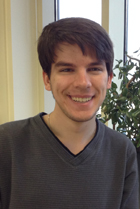
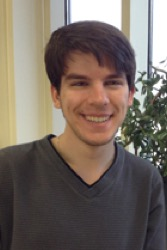
Update people; Scale down image sizes.

diff --git a/pages/research/research.html b/pages/research/research.html
@@ -9,8 +9,12 @@ menu: research
 
 <p>Model organisms provide the opportunity to experimentally test the correlations between genes and disease-related processes because of the high-level of conservation and the ease of manipulation. However, most model organism research is based on a single wild-type strain background with little connection to natural variation, which is like studying a single person to make conclusions about the entire human species. <em>C. elegans</em> is isolated worldwide and has genetic variation comparable to that of humans. Therefore, <em>C. elegans</em> provides the opportunity to identify the genes that vary among individuals and the molecular mechanisms for how genetic variation causes phenotypic differences.</p>
 
+
+{% assign pages = site.pages | sort:"order"  %}
+
+
 <ul>
-{% for page in site.pages %}
+{% for page in pages %}
 	{% if page.category == "research" %}
 	<li><a href="#{{ page.title }}">{{ page.title }}</a></li>
 	{% endif %}
@@ -18,17 +22,21 @@ menu: research
 </ul>
 
 
-
-<div class="row">
-{% for page in site.pages %}
-<div class="col-md-6">
+{% for page in pages %}
 	{% if page.category == "research" %}
-	<h4><a name="{{ page.title }}"></a>{{ page.title }}</h4>
-		{{ page.content }}
+	<div class="row">
+			<div class="col-md-4">
+				<img src="/assets/img/research/{{ page.image }}" style= "margin-top:25px" class = "img-responsive img-thumbnail" alt = "{{ page.title }}" />
+			</div>
+			<div class="col-md-8">
+			<h3>{{ page.title }}</h3>
+				{{ page.content }}
+				<hr />
+			</div>
+	</div>
 	{% endif %}
-</div>
 {% endfor %}
-</div>
+
 
 
 

diff --git a/pages/research/research-variants.md b/pages/research/research-variants.md
@@ -4,20 +4,10 @@ title: Species-wide and genome-wide identification of genomic variants
 permalink: Research/Projects/Variation/
 menu: research
 category: research
+image: variant-calling.png
+order: 2
 ---
 
-<div class="row">
+Because of the efforts of a number of highly dedicated scientists and citizen volunteers, we have amassed a large collection of more than 200 C. elegans strains from throughout the world. These strains represent nearly all known isolation locations where we have found this species. Our goals are to use this large strain collection to identify functional variation for a large number of traits and to understand more about the population genetic forces shaping the genome.
 
-<div class="col-md-12">
-<div class="text-center">
-<br />
-	<img src="/assets/img/research/variant-calling.png" alt="Drug Sensitivities and Stress" class="thumbnail" style="margin:auto; width: 300px;"/><br /><br />
-</div>
-
-<p>Because of the efforts of a number of highly dedicated scientists and citizen volunteers, we have amassed a large collection of more than 200 C. elegans strains from throughout the world. These strains represent nearly all known isolation locations where we have found this species. Our goals are to use this large strain collection to identify functional variation for a large number of traits and to understand more about the population genetic forces shaping the genome.</p>
-
-<p>To this end, we sequenced all of these strains at 50X depth using the Illumina HiSeq platform. This large sequence data set allows us to not only identify single nucleotide variants but to dig deeper into other classes of genetic variation, including insertion/deletions, transposon insertions, genomic rearrangements, microsatellite repeats, and copy number variants. We hope that these addition classes of variation will contribute to understanding how genetic variation contributes to phenotypic variation. </p>
-
-</div>
-
-</div>
+To this end, we sequenced all of these strains at 50X depth using the Illumina HiSeq platform. This large sequence data set allows us to not only identify single nucleotide variants but to dig deeper into other classes of genetic variation, including insertion/deletions, transposon insertions, genomic rearrangements, microsatellite repeats, and copy number variants. We hope that these addition classes of variation will contribute to understanding how genetic variation contributes to phenotypic variation. 

diff --git a/pages/research/research-signalling.md b/pages/research/research-signalling.md
@@ -4,20 +4,11 @@ title: Investigation of natural variation in conserved signaling pathways
 permalink: Research/Projects/Signalling/
 menu: research
 category: research
+image: Vulva_pop.jpg
+order: 4
 ---
 
-<div class="row">
 
-<div class="col-md-12">
-<div class="text-center">
-<br />
-	<img src="/assets/img/research/Vulva_pop.jpg" alt="Drug Sensitivities and Stress" class="thumbnail" style="margin:auto; width: 300px;"/><br /><br />
-</div>
+<em>C. elegans</em> is a powerful model to identify the genes and mechanisms for cell-fate specification. Recent results show that the canonical pathways found in the laboratory strain (N2) vary within natural populations. Individual members of the pathway have different activities or are modified by novel factors. We aim to determine how these new networks are wired as compared to the classic examples.
 
-<p><em>C. elegans</em> is a powerful model to identify the genes and mechanisms for cell-fate specification. Recent results show that the canonical pathways found in the laboratory strain (N2) vary within natural populations. Individual members of the pathway have different activities or are modified by novel factors. We aim to determine how these new networks are wired as compared to the classic examples.</p>
-
-<p>Using quantitative assays of vulval development, dauer formation, and stress responses, we probe the conserved Ras, Notch, Wnt, TGF-beta, insulin signaling pathways for variation within the <em>C. elegans</em> species. Once we identify these variant genes, we can determine the mechanisms for how natural populations vary in canonical signaling pathways. These results might shed light on the important genes that vary most in human populations to cause differences in development and/or disease.</p>
-
-</div>
-
-</div>
+Using quantitative assays of vulval development, dauer formation, and stress responses, we probe the conserved Ras, Notch, Wnt, TGF-beta, insulin signaling pathways for variation within the <em>C. elegans</em> species. Once we identify these variant genes, we can determine the mechanisms for how natural populations vary in canonical signaling pathways. These results might shed light on the important genes that vary most in human populations to cause differences in development and/or disease.

diff --git a/pages/research/research-GxE.md b/pages/research/research-GxE.md
@@ -4,20 +4,11 @@ title: Identification of the genes that underly gene-by-environment (GxE) intera
 permalink: Research/Projects/GxE/
 menu: research
 category: research
+image: GxE.jpg
+order: 3
 ---
 
-<div class="row">
+The phenotype of an organism is determined by both genetic and environmental factors. Additionally, we know that some genetic factors only have effects on the phenotype of an organism in certain environments. Understanding these gene-by-environment (GxE) interactions at the molecular level will likely inform us about how organisms respond to shifting environments.
 
-<div class="col-md-12">
-<div class="text-center">
-<br />
-	<img src="/assets/img/research/GxE.jpg" alt="Drug Sensitivities and Stress" class="thumbnail" style="margin:auto; width: 300px;"/><br /><br />
-</div>
+In an effort to investigate the mechanistic underpinnings for a large number GxE interactions, we used our high-throughput assays (here - link to that page) to measure fecundity, growth rate, and pharyngeal pumping in different bacterial food sources and different temperatures. 
 
-<p>The phenotype of an organism is determined by both genetic and environmental factors. Additionally, we know that some genetic factors only have effects on the phenotype of an organism in certain environments. Understanding these gene-by-environment (GxE) interactions at the molecular level will likely inform us about how organisms respond to shifting environments.</p>
-
-<p>In an effort to investigate the mechanistic underpinnings for a large number GxE interactions, we used our high-throughput assays (here - link to that page) to measure fecundity, growth rate, and pharyngeal pumping in different bacterial food sources and different temperatures. </p>
-
-</div>
-
-</div>

diff --git a/pages/research/research-drugs.md b/pages/research/research-drugs.md
@@ -4,12 +4,9 @@ title: High-throughput approaches to understand conserved drug responses
 permalink: Research/Projects/Drug-Response/
 menu: research
 category: research
+image: "worms_drugs2.jpg"
+order: 1
 ---
-
-
-<div>
-	<img src="/assets/img/research/worms_drugs2.jpg" alt="Drug Sensitivities and Stress" class="thumbnail" style="margin:auto;"/><br /><br />
-</div>
 
 To map sensitivities to drugs, we use high-throughput assays to rapidly phenotype a collection of over 400 worldwide natural _C. elegans_ isolates (for association mapping) or a panel of nearly 1200 recombinant inbred lines between the Bristol (N2) and Hawaii (CB4856) strains (for linkage mapping).
 
